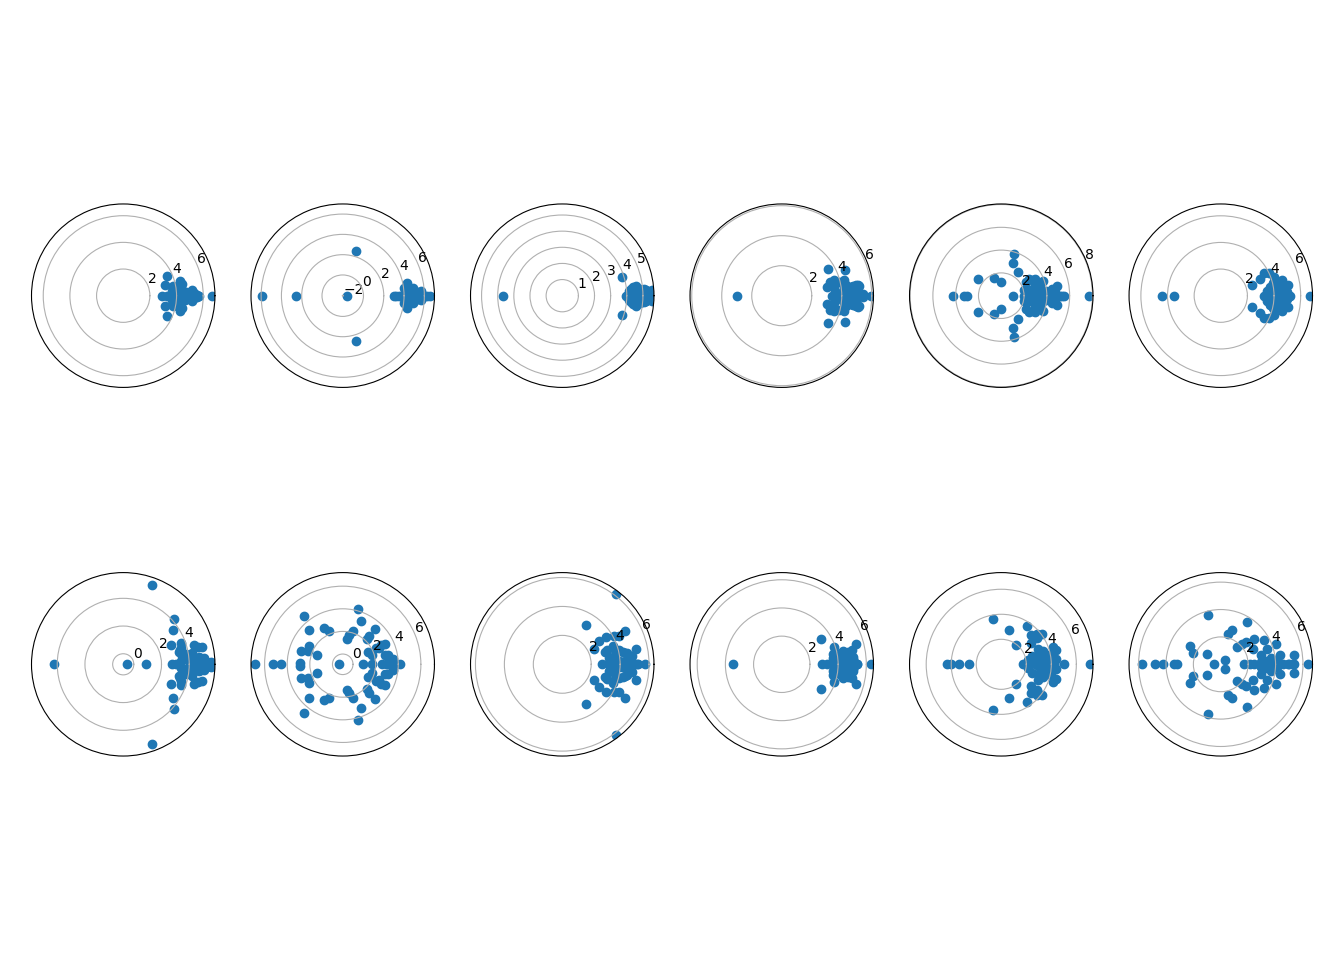
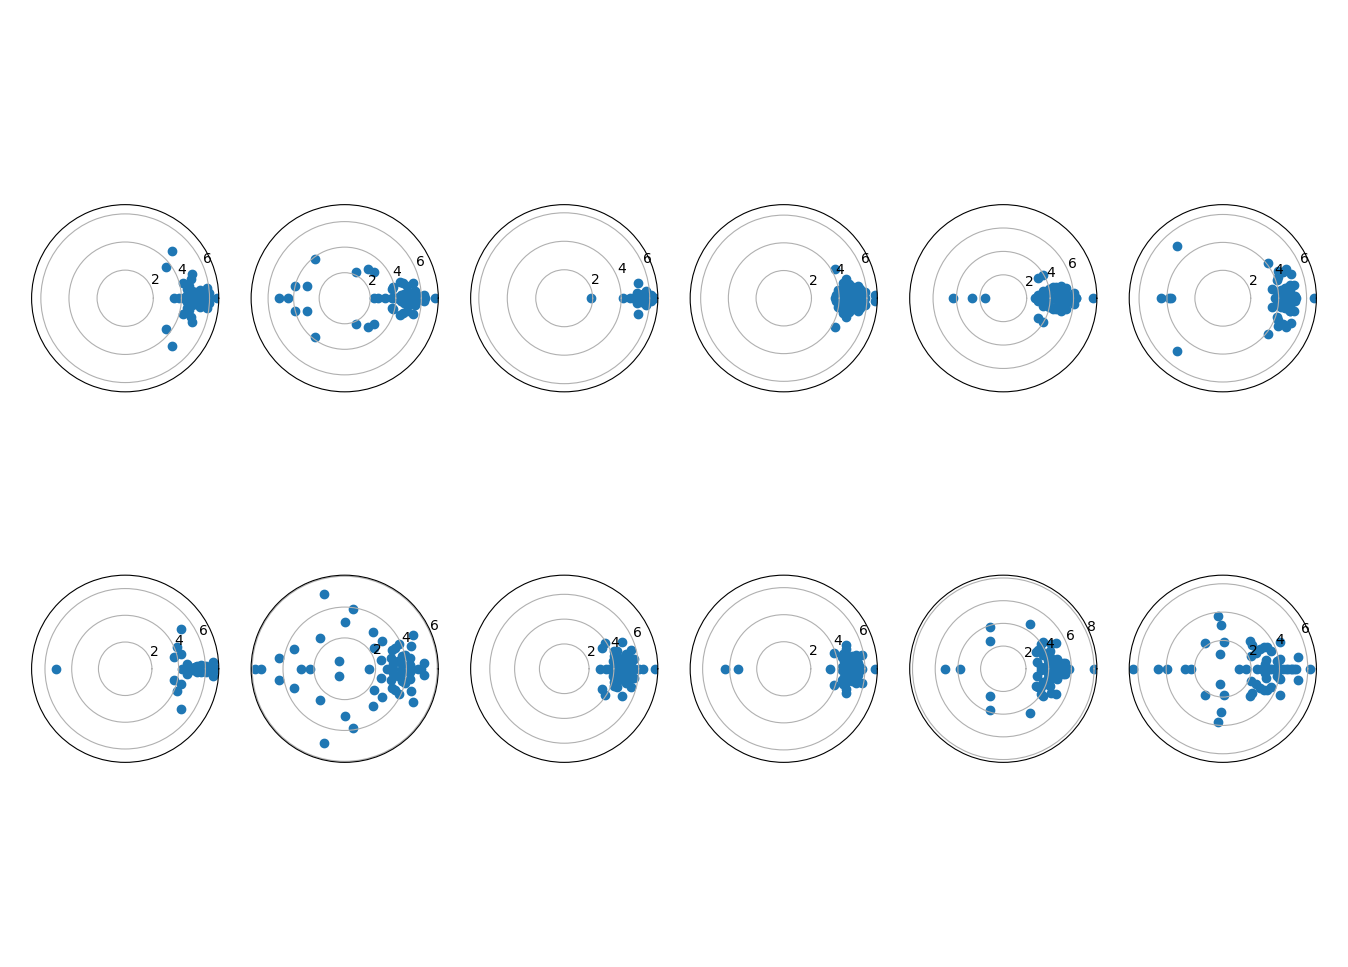
Update plots

Changed region(s): [[0.0312, 0.5931, 0.9688, 0.8117], [0.0312, 0.1873, 0.9688, 0.4058], [0.7188, 0.1873, 0.75, 0.2185]]

diff --git a/analysis/one_layer.md b/analysis/one_layer.md
@@ -8,7 +8,7 @@ We see that most of the heads are copying.
 
 ### Primarily Positional heads
 An example of a head which attends to relative positions.
-![Positional head](assets/head_5_pos.png)
+![Positional head](assets/head_11_pos.png)
 
 
 ```
